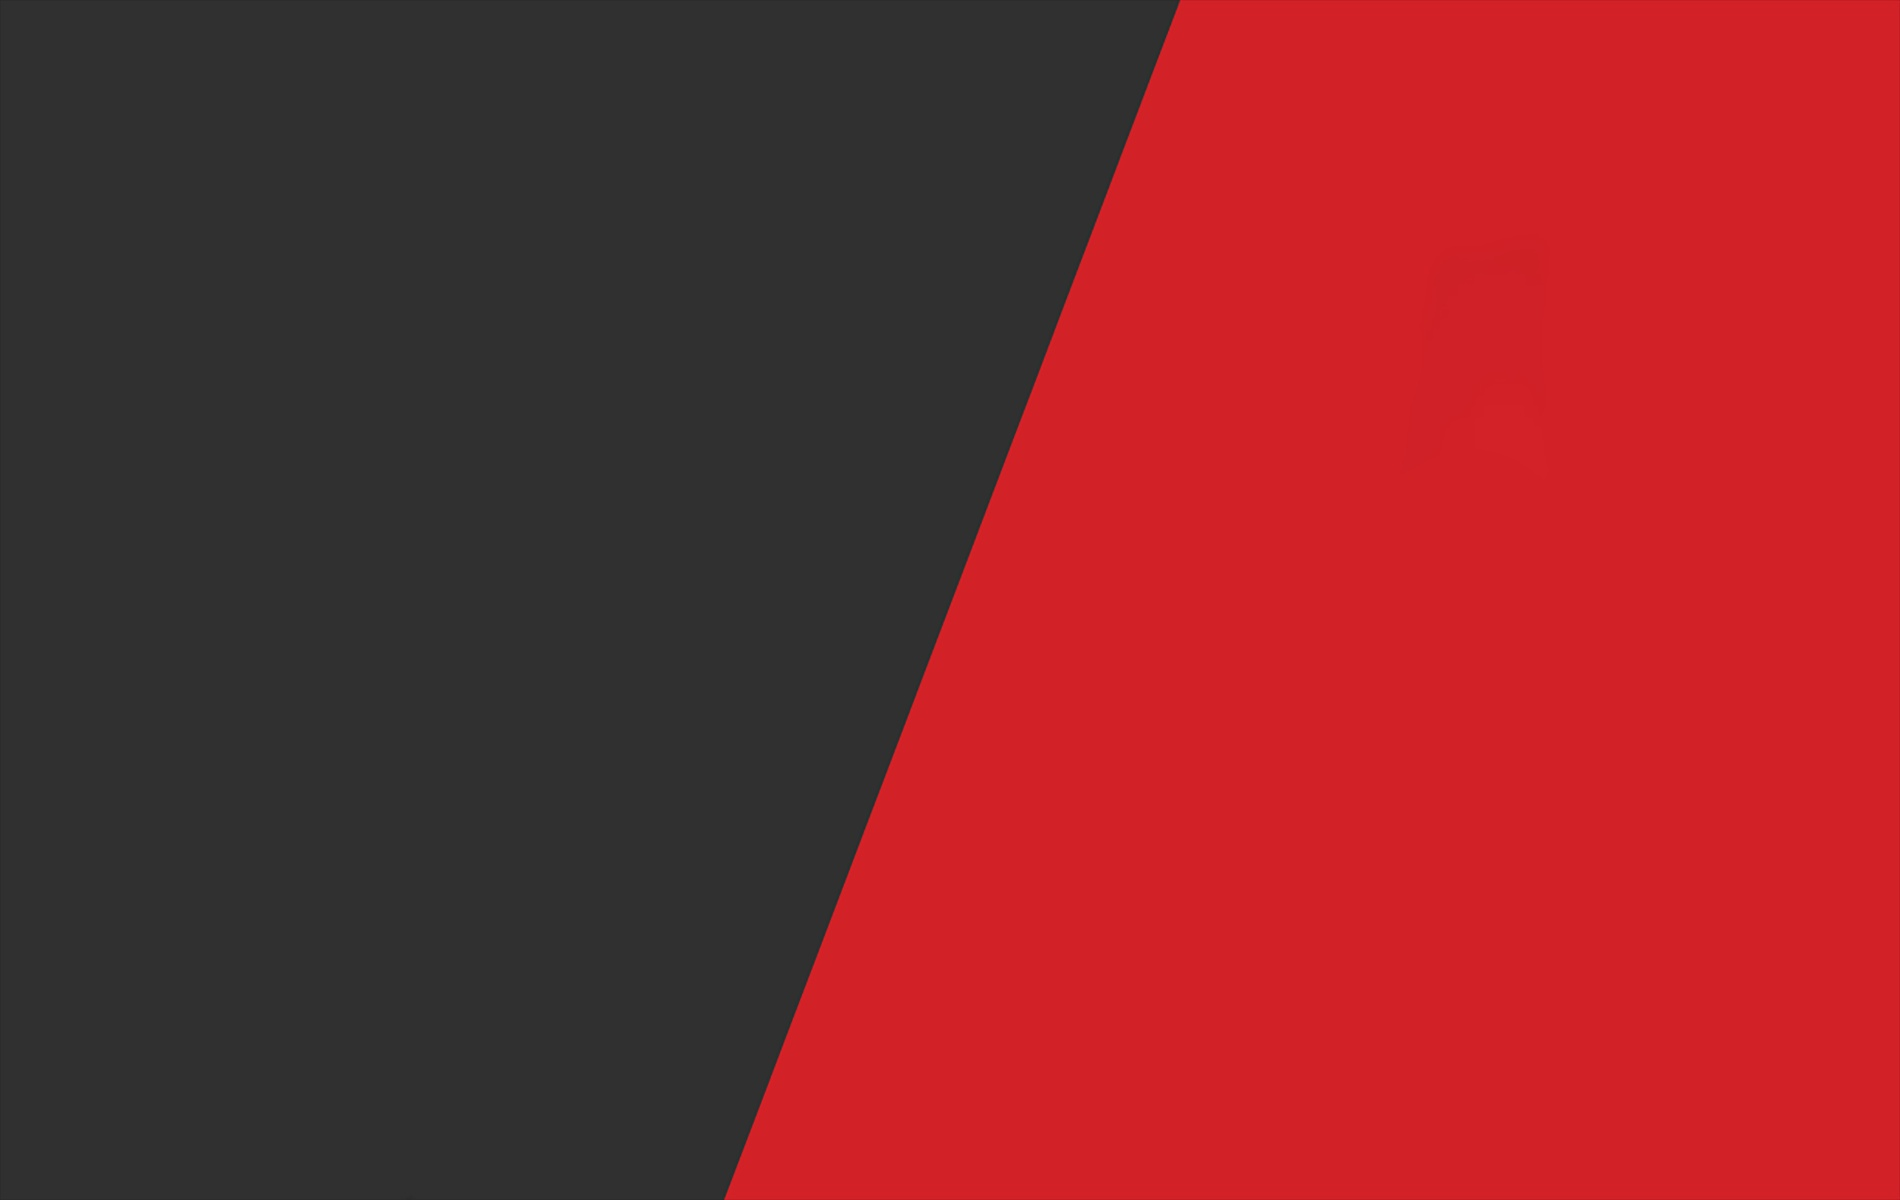
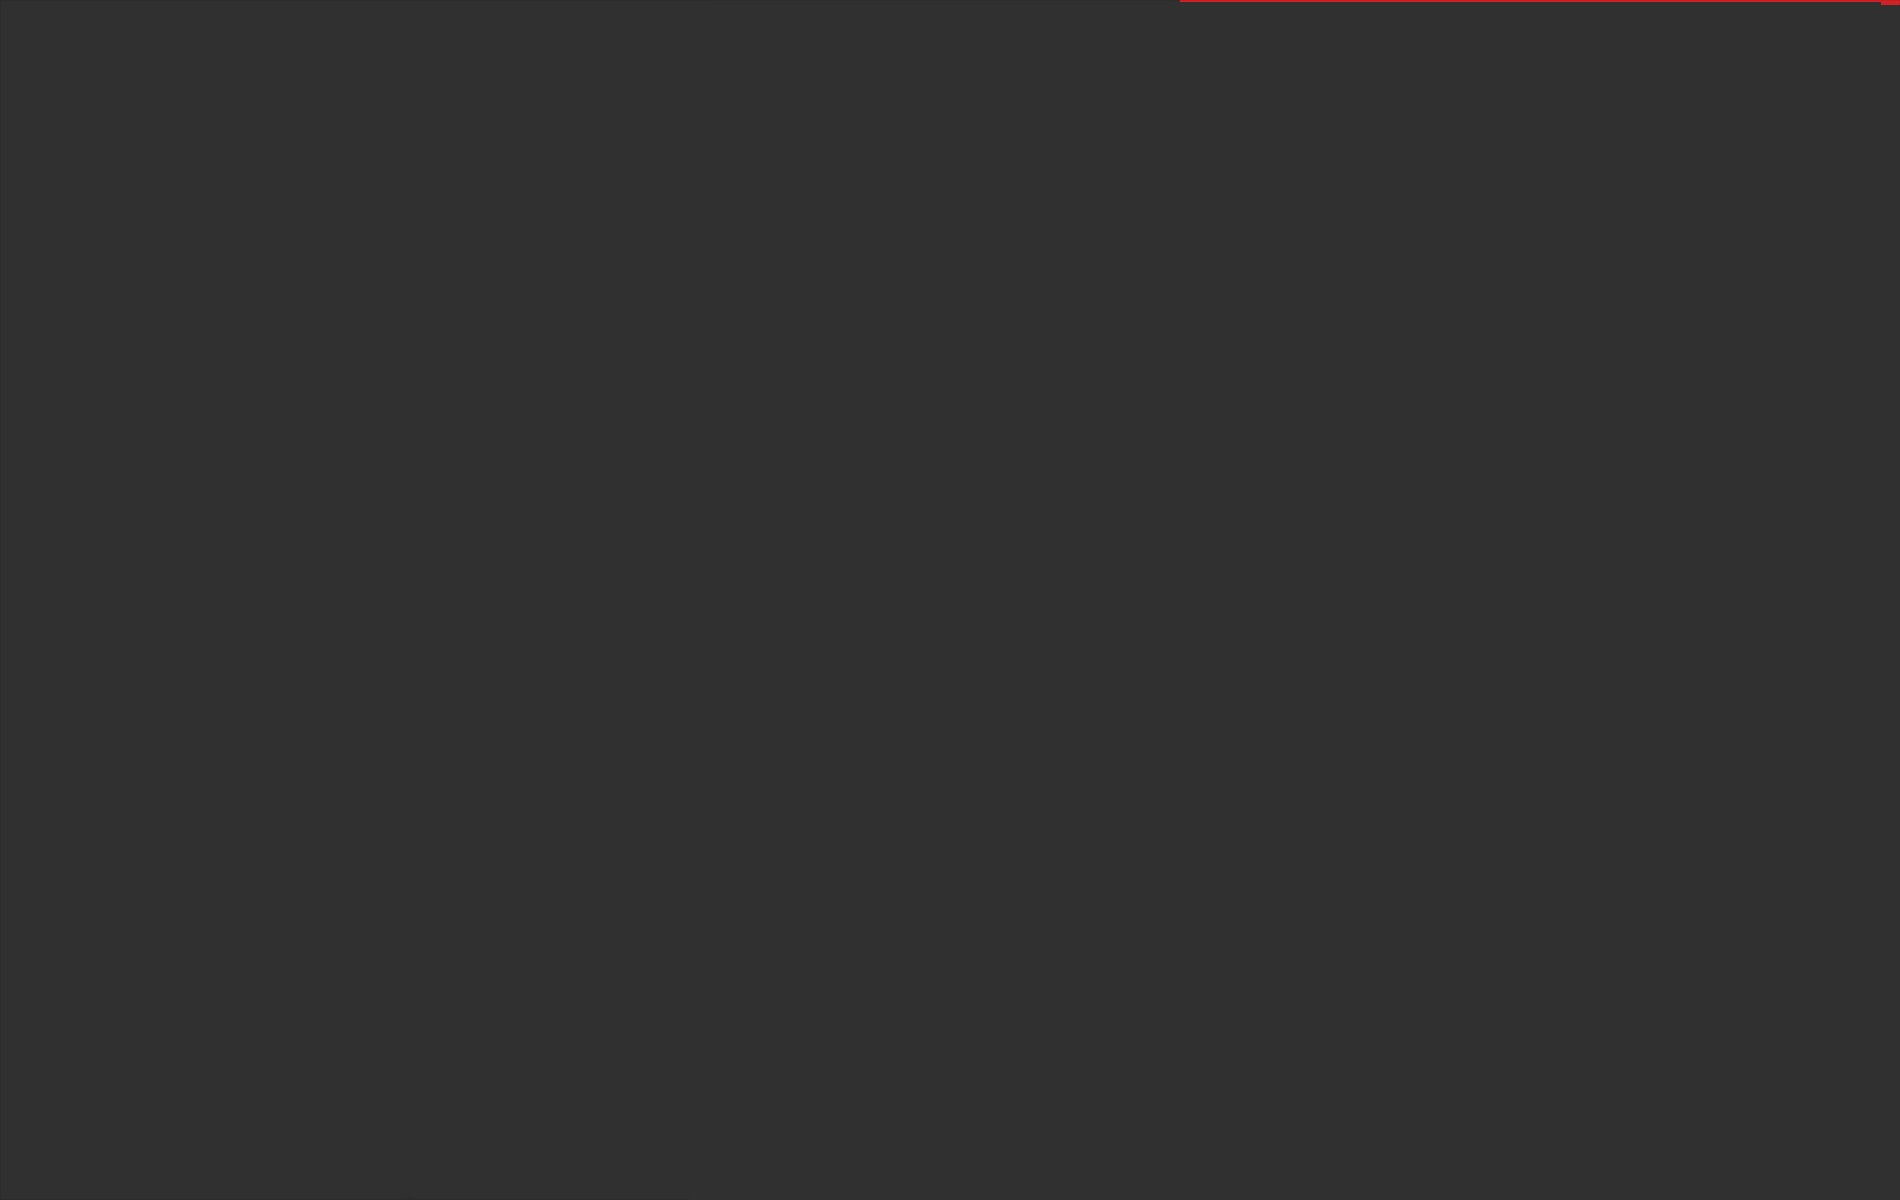
front

diff --git a/css/materialize.css b/css/materialize.css
@@ -2964,7 +2964,7 @@ ul.staggered-list li {
           justify-content: space-between;
   padding: 10px 0px;
   color: rgba(255, 255, 255, 0.8);
-  background-color: rgba(51, 51, 51, 0.08);
+  background-color: #303030;
 }
 
 table, th, td {

diff --git a/css/style.css b/css/style.css
@@ -24,7 +24,8 @@ main {
 }
 
 body {
-  background: #fff;
+  background-image: url("../img/background.jpg");
+  
 }
 
 .input-field input[type=date]:focus + label,
